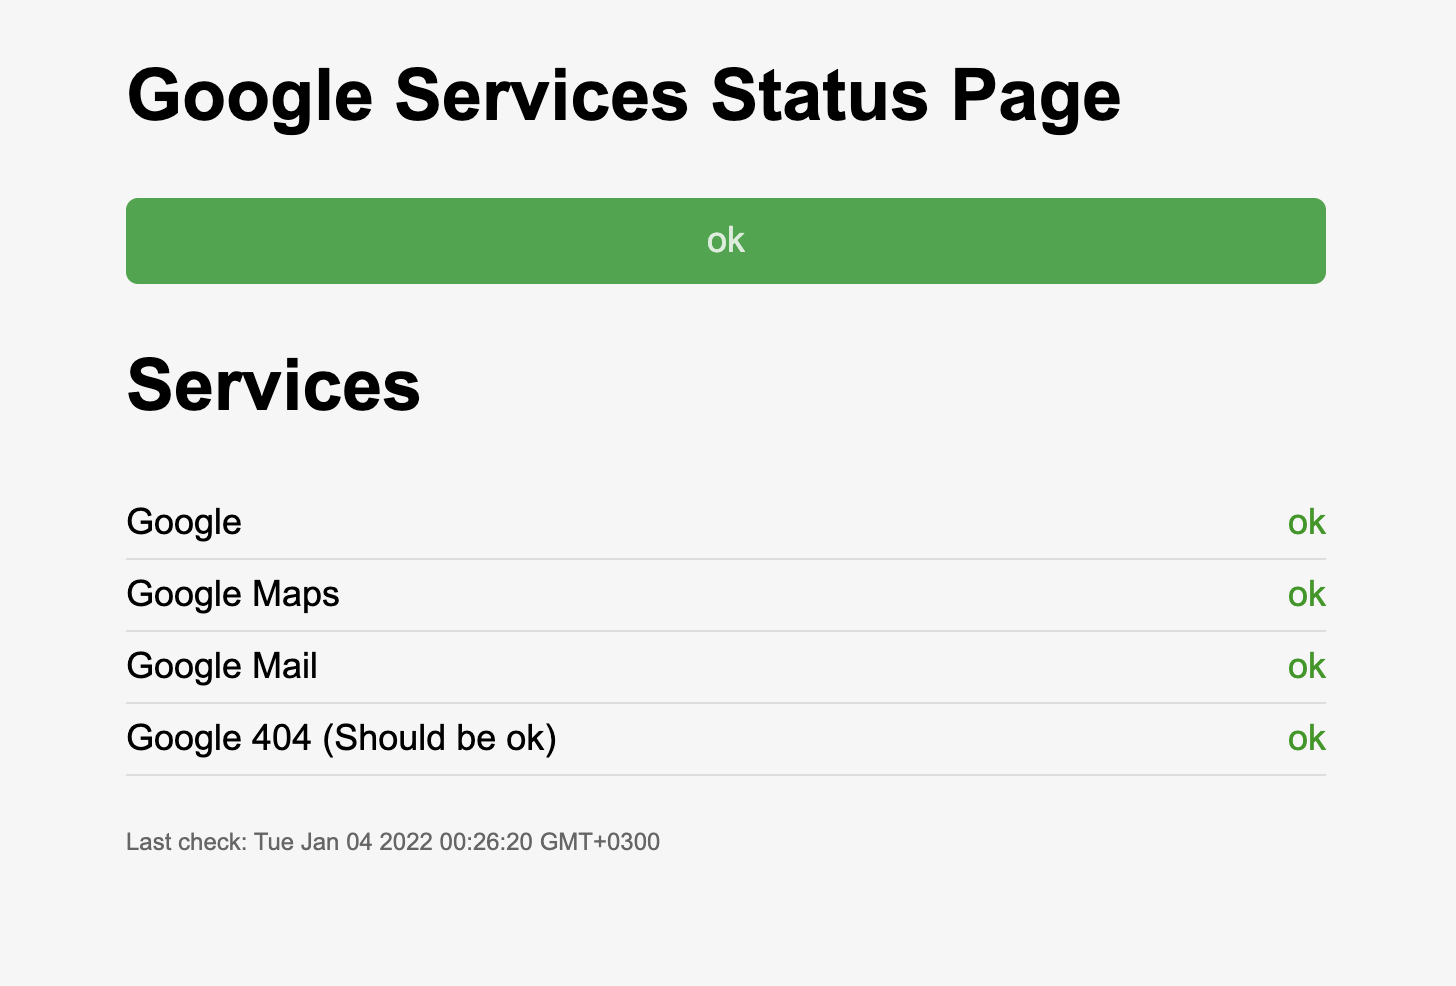
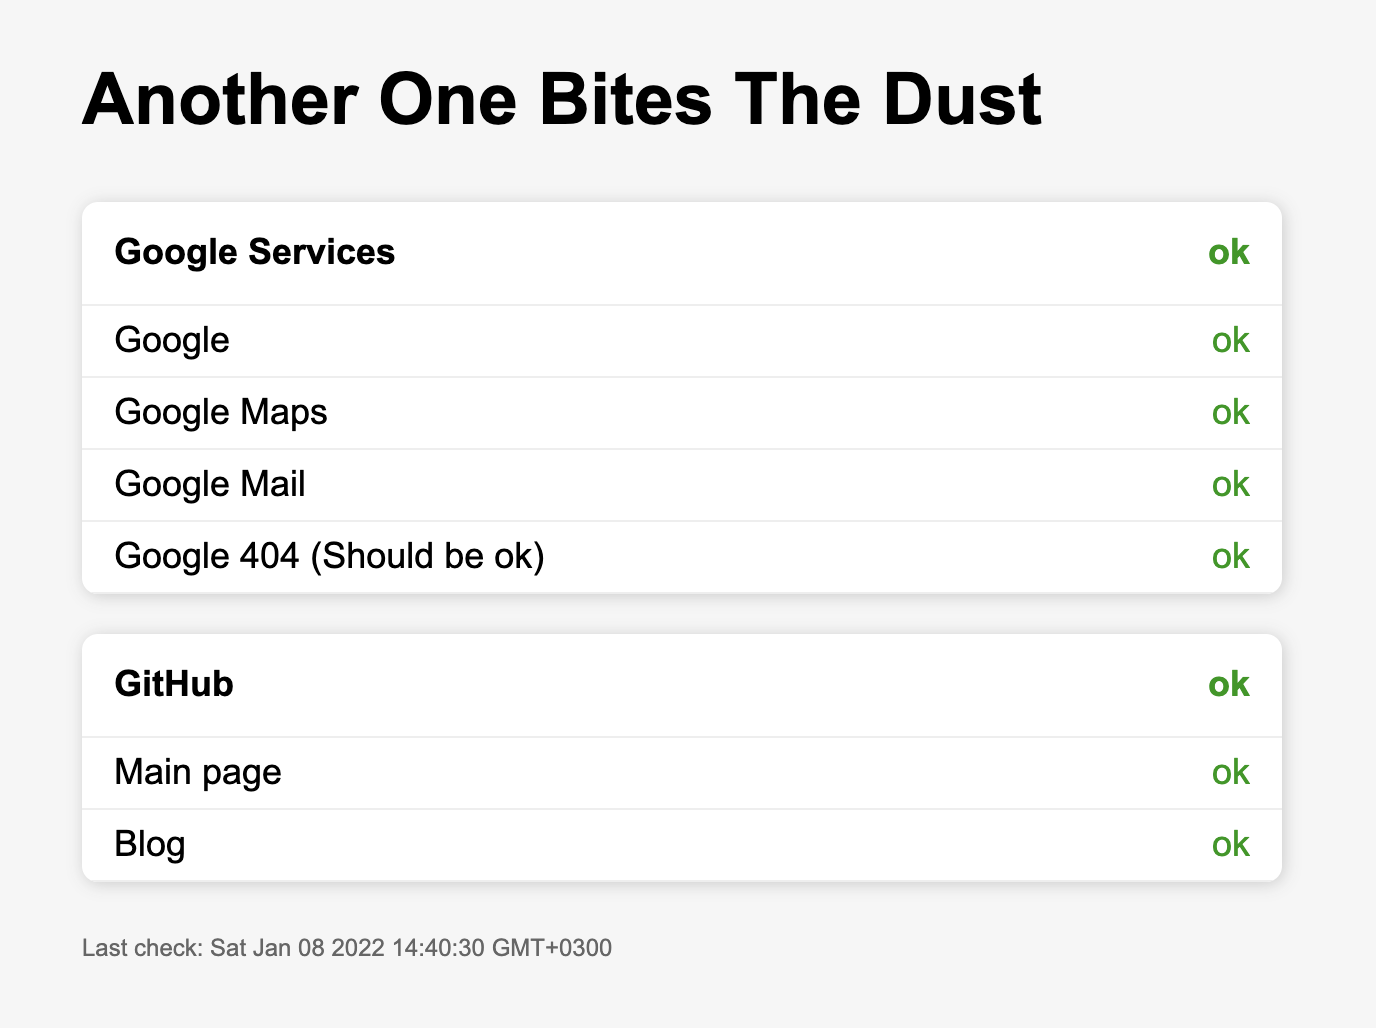
Redesign

diff --git a/src/server.js b/src/server.js
@@ -13,12 +13,6 @@ function server(checkConfig) {
   app.set('view engine', 'hbs');
   app.use(express.static(path.join(__dirname, './public')));
 
-  app.get('/group/:group', (req, res) => {
-    const { group } = req.params;
-
-    return renderGroupStatus(group, res);
-  });
-
   app.get('/', (req, res) => {
     if (!statusData.updateTime) {
       return res.render('page', { title: 'Waiting for a data' });
@@ -30,33 +24,16 @@ function server(checkConfig) {
       });
     }
 
-    if (statusData.checkData.length === 1) {
-      return renderGroupStatus(statusData.checkData[0].group, res);
-    }
-
-    res.render('index', statusData);
+    res.render('index', {
+      ...statusData,
+      title: checkConfig.title || 'Another One Bites the Dust',
+      groupsMod: checkConfig.showExpanded ? '' : 'hidden',
+    });
   });
 
   app.listen(port, () => {
     console.log(`App listening at http://localhost:${port}`);
   });
-
-  function renderGroupStatus(group, res) {
-    if (!statusData.updateTime) {
-      return res.render('page', { title: 'Waiting for a data' });
-    }
-
-    const checkData = statusData.checkData.find((item) => item.group === group);
-
-    if (!checkData) {
-      return res.status(404).render('page', { title: 'Not Found' });
-    }
-
-    return res.render('status', {
-      ...checkData,
-      updateTime: statusData.updateTime,
-    });
-  }
 
   return app;
 }

diff --git a/src/public/style.css b/src/public/style.css
@@ -15,48 +15,51 @@ h1 {
   text-transform: capitalize;
 }
 
-.group_status {
-  color: #fff;
-  padding: 8px 16px;
-  border-radius: 6px;
-  text-align: center;
+.group {
+  background-color: #fff;
+  border-radius: 8px;
+  box-shadow: 1px 1px 8px #ccc;
+  margin: 20px 0;
+  overflow: hidden;
 }
 
-.group_status.ok {
-  background-color: #28a745;
-  color: #fffc;
+.group_header {
+  cursor: pointer;
+  font-weight: bold;
 }
 
-.group_status.warning {
-  background-color: #ffc107;
-  color: #000c;
+.group.hidden .services {
+  display: none;
 }
 
-.group_status.error {
-  background-color: #dc3545;
-  color: #fffc;
-}
-
-.service {
-  border-bottom: 1px solid #ddd;
+.row {
+  border-bottom: 1px solid #eee;
   display: flex;
   justify-content: space-between;
-  padding: 4px 0;
+  padding: 4px 16px;
 }
 
-.service_status {
+.row.group_header {
+  padding: 12px 16px;
+}
+
+.row:hover {
+  background-color: #f6f6f6;
+}
+
+.row_status {
   text-align: right;
 }
 
-.service.ok .service_status {
+.row.ok .row_status {
   color: #090;
 }
 
-.service.warning .service_status {
+.row.warning .row_status {
   color: #f90;
 }
 
-.service.error .service_status {
+.row.error .row_status {
   color: #d00;
 }
 

diff --git a/src/public/frontend.js b/src/public/frontend.js
@@ -1,0 +1,15 @@
+const groups = document.querySelector('.groups');
+
+const onGroupHeaderClick = (e) => {
+  const header = e.target.closest('.group_header');
+
+  if (!header) {
+    return;
+  }
+
+  const group = header.closest('.group');
+
+  group.classList.toggle('hidden');
+};
+
+groups.addEventListener('click', onGroupHeaderClick);

diff --git a/example_config.js b/example_config.js
@@ -2,6 +2,8 @@ const { checkHttpStatus, checkHeartbeat } = require('.');
 
 const config = {
   pollingCycle: 120, // in seconds
+  // title: 'Your custom title',
+  showExpanded: true,
   groups: [
     {
       name: 'Google Services',
